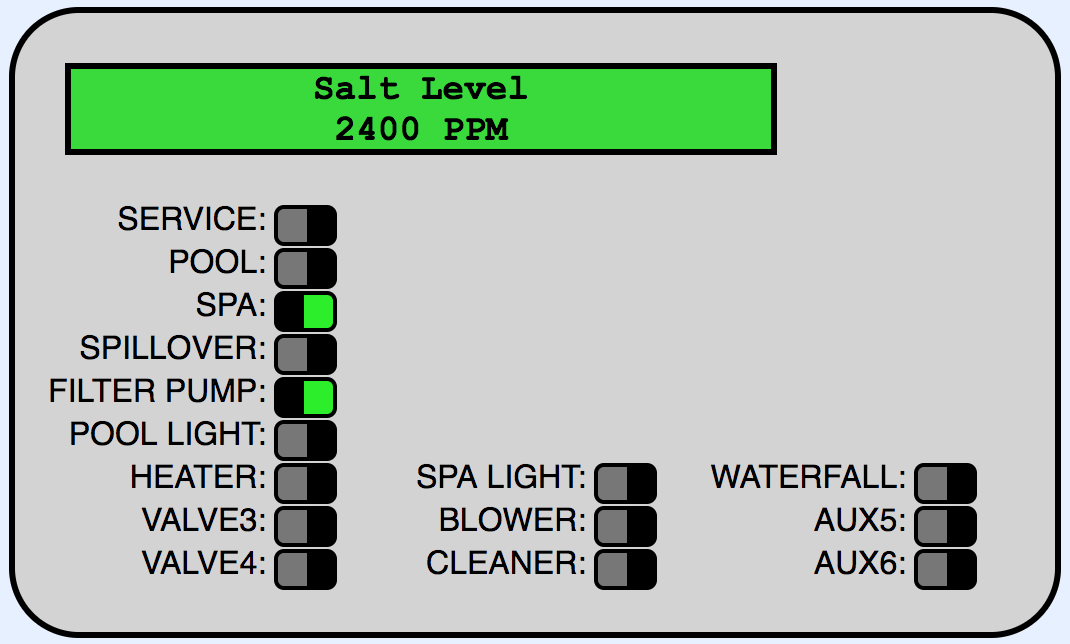
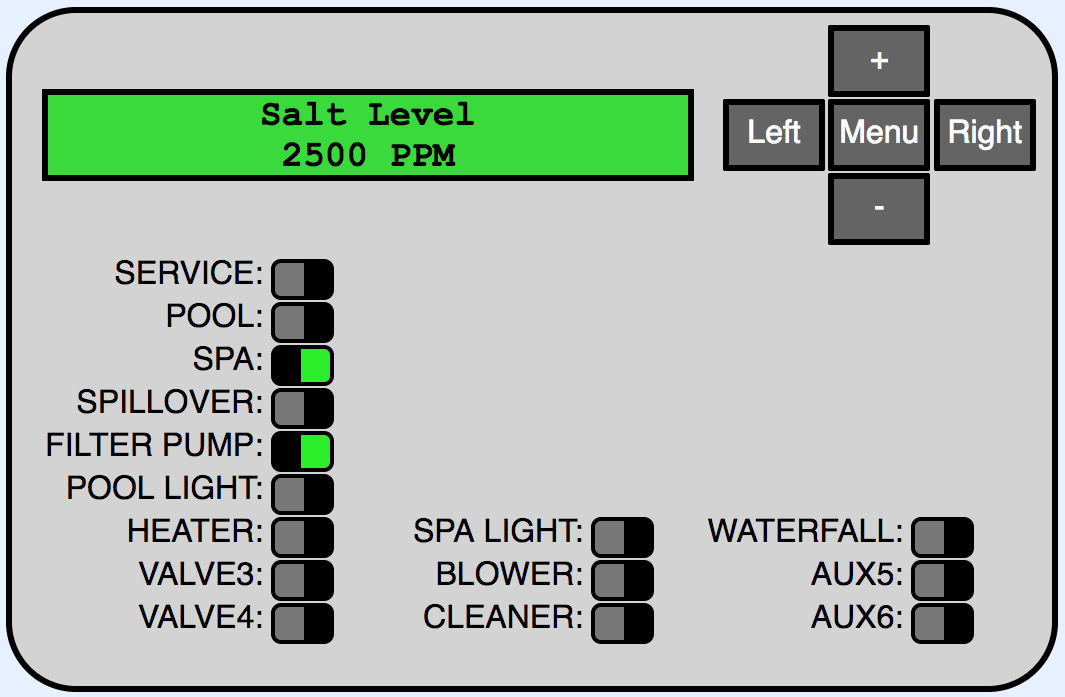
Updated front end. Updated gui image.

diff --git a/src/templates/index.html b/src/templates/index.html
@@ -125,6 +125,7 @@
         </div>
         <div class="topPanel">
             <div class="topLeft">
+                <!-- TODO update css to prevent initial shifting from display empty to display having content -->
                 <div class="display">
                     <div id="display1"></div>
                     <div id="display2"></div>

diff --git a/src/static/styles.css b/src/static/styles.css
@@ -72,6 +72,8 @@ body {
 }
 
 .button {
+  background: rgb(100, 100, 100);
+  color: white;
   cursor: pointer;
   display: inline-block;
   width: 45px;
@@ -79,6 +81,8 @@ body {
   border-radius: 1px;
   border-color: black;
   text-align: center;
+  height: 30px;
+  line-height: 30px;
   margin: 0 auto;
 }
 
